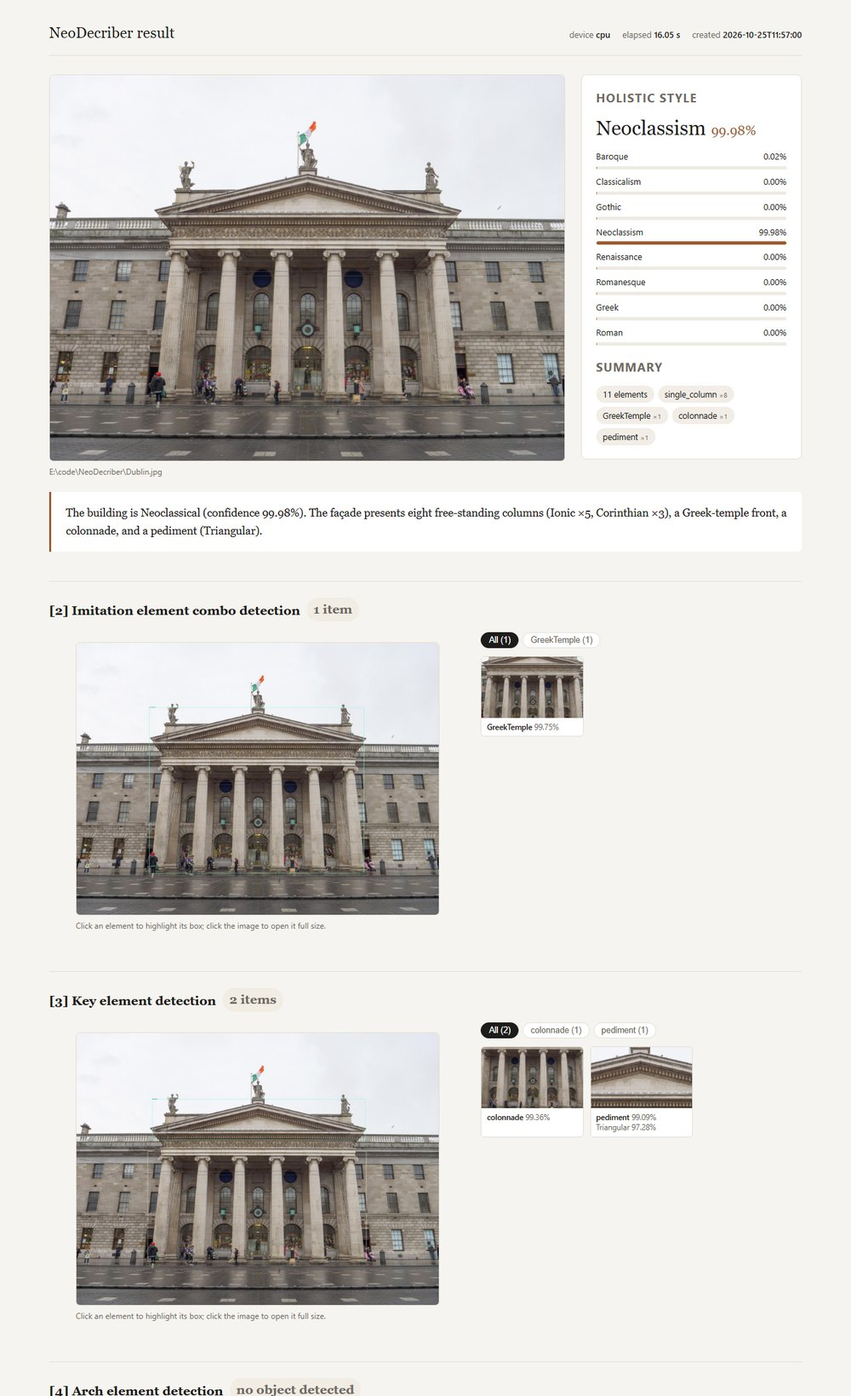
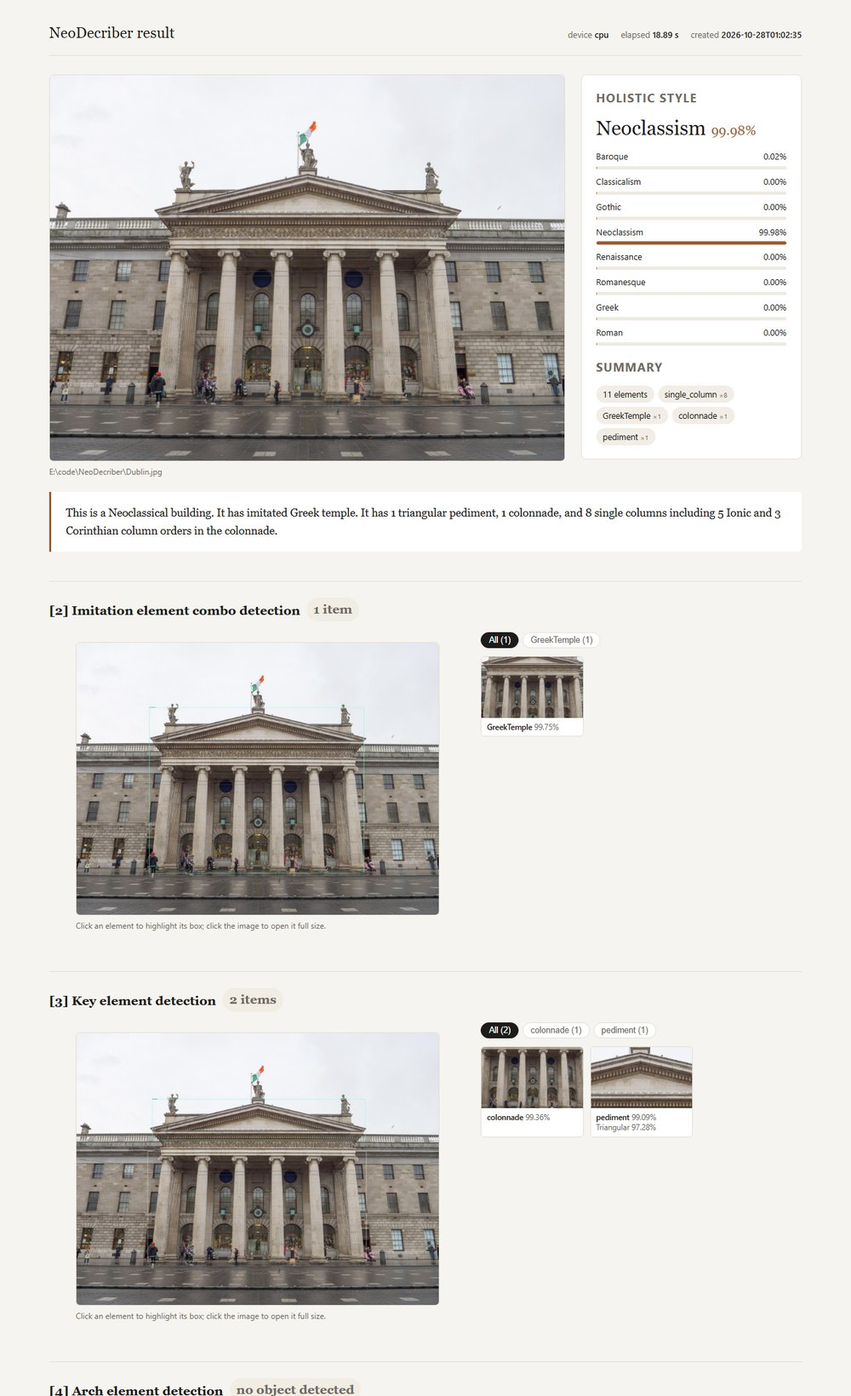
feat: describe results in the paper's phrasing
- description now reads: This is a Neoclassical building. It has imitated
  Greek temple. It has 1 triangular pediment, 1 colonnade, and 8 single columns
  including 5 Ionic and 3 Corinthian column orders in the colonnade.
- imitation stage is reported as its own sentence, elements are ordered top-down,
  counts are numerals and single-column styles are aggregated as column orders
- regenerate example_result/ and the README screenshot with a real run
- ignore the local dataset folder and zip archives

Changed region(s): [[0.093, 0.3421, 0.93, 0.4043], [0.837, 0.0, 0.899, 0.0311]]

diff --git a/example_result/report.html b/example_result/report.html
@@ -79,7 +79,7 @@ footer code { background: #f1ece4; padding: 1px 5px; border-radius: 4px; }
 </style>
 </head>
 <body>
-<div class="wrap"><header class="top"><div class="brand">NeoDecriber result</div><div class="meta"><span>device <b>cpu</b></span><span>elapsed <b>16.05 s</b></span><span>created <b>2026-10-25T11:57:00</b></span></div></header><section class="hero"><figure><img src="input.jpg" alt="input image"><figcaption>E:\code\NeoDecriber\Dublin.jpg</figcaption></figure><div class="panel"><h3>Holistic style</h3><div class="style-big">Neoclassism<span class="style-prob">99.98%</span></div><div class="bars"><div class="bar-row"><span>Baroque</span><span>0.02%</span><div class="bar-track"><div class="bar-fill" style="width:0.4%"></div></div></div><div class="bar-row"><span>Classicalism</span><span>0.00%</span><div class="bar-track"><div class="bar-fill" style="width:0.4%"></div></div></div><div class="bar-row"><span>Gothic</span><span>0.00%</span><div class="bar-track"><div class="bar-fill" style="width:0.4%"></div></div></div><div class="bar-row"><span>Neoclassism</span><span>99.98%</span><div class="bar-track"><div class="bar-fill" style="width:100.0%"></div></div></div><div class="bar-row"><span>Renaissance</span><span>0.00%</span><div class="bar-track"><div class="bar-fill" style="width:0.4%"></div></div></div><div class="bar-row"><span>Romanesque</span><span>0.00%</span><div class="bar-track"><div class="bar-fill" style="width:0.4%"></div></div></div><div class="bar-row"><span>Greek</span><span>0.00%</span><div class="bar-track"><div class="bar-fill" style="width:0.4%"></div></div></div><div class="bar-row"><span>Roman</span><span>0.00%</span><div class="bar-track"><div class="bar-fill" style="width:0.4%"></div></div></div></div><h3>Summary</h3><div class="stats"><span class="pill">11 elements</span><span class="pill">single_column <small>×8</small></span><span class="pill">GreekTemple <small>×1</small></span><span class="pill">colonnade <small>×1</small></span><span class="pill">pediment <small>×1</small></span></div></div></section><blockquote class="desc">The building is Neoclassical (confidence 99.98%). The façade presents eight free-standing columns (Ionic ×5, Corinthian ×3), a Greek-temple front, a colonnade, and a pediment (Triangular).</blockquote><section class="stage"><h2>[2] Imitation element combo detection<span class="badge">1 item</span></h2><div class="stage-body"><figure class="annotated"><a href="imitation%20element%20combo.jpg" target="_blank" rel="noopener"><img src="report/imitation%20element%20combo.jpg" alt="Imitation element combo detection" loading="lazy"></a><div class="overlay"></div><figcaption>Click an element to highlight its box; click the image to open it full size.</figcaption></figure><div><div class="chips"><button class="chip on" data-label="">All (1)</button><button class="chip" data-label="GreekTemple">GreekTemple (1)</button></div><div class="crops"><figure class="crop" data-label="GreekTemple" data-bbox="1042.3,926.0,4112.3,3294.9" title="GreekTemple #0 · 99.75%"><img src="element_combination/GreekTemple_0.jpg" alt="GreekTemple" loading="lazy"><figcaption><b>GreekTemple</b> 99.75%</figcaption></figure></div></div></div></section><section class="stage"><h2>[3] Key element detection<span class="badge">2 items</span></h2><div class="stage-body"><figure class="annotated"><a href="key_element.jpg" target="_blank" rel="noopener"><img src="report/key_element.jpg" alt="Key element detection" loading="lazy"></a><div class="overlay"></div><figcaption>Click an element to highlight its box; click the image to open it full size.</figcaption></figure><div><div class="chips"><button class="chip on" data-label="">All (2)</button><button class="chip" data-label="colonnade">colonnade (1)</button><button class="chip" data-label="pediment">pediment (1)</button></div><div class="crops"><figure class="crop" data-label="colonnade" data-bbox="1018.0,1692.6,4147.7,3258.6" title="colonnade #0 · 99.36%"><img src="key_element/colonnade_0.jpg" alt="colonnade" loading="lazy"><figcaption><b>colonnade</b> 99.36%</figcaption></figure><figure class="crop" data-label="pediment" data-bbox="1083.2,946.8,4133.1,1523.2" title="pediment #1 · 99.09%"><img src="key_element/pediment_1.jpg" alt="pediment" loading="lazy"><figcaption><b>pediment</b> 99.09%<br>Triangular 97.28%</figcaption></figure></div></div></div></section><section class="stage"><h2>[4] Arch element detection<span class="badge">no object detected</span></h2><p class="empty">No element above the threshold.</p></section><section class="stage"><h2>[5] Column combination detection<span class="badge">no object detected</span></h2><p class="empty">No element above the threshold.</p></section><section class="stage"><h2>[6] Single column detection<span class="badge">8 items</span></h2><div class="stage-body"><figure class="annotated"><a href="single_column.jpg" target="_blank" rel="noopener"><img src="report/single_column.jpg" alt="Single column detection" loading="lazy"></a><div class="overlay"></div><figcaption>Click an element to highlight its box; click the image to open it full size.</figcaption></figure><div><div class="chips"><button class="chip on" data-label="">All (8)</button><button class="chip" data-label="single_column">single_column (8)</button></div><div class="crops"><figure class="crop" data-label="single_column" data-bbox="3788.6,1736.1,4143.9,3225.5" title="single_column #0 · 99.80%"><img src="single_column/single_column_0.jpg" alt="single_column" loading="lazy"><figcaption><b>single_column</b> 99.80%<br>Corinthian 49.50%</figcaption></figure><figure class="crop" data-label="single_column" data-bbox="2714.2,1719.0,3027.5,3253.1" title="single_column #1 · 99.71%"><img src="single_column/single_column_1.jpg" alt="single_column" loading="lazy"><figcaption><b>single_column</b> 99.71%<br>Ionic 96.02%</figcaption></figure><figure class="crop" data-label="single_column" data-bbox="1612.4,1721.9,1949.4,3209.9" title="single_column #2 · 99.57%"><img src="single_column/single_column_2.jpg" alt="single_column" loading="lazy"><figcaption><b>single_column</b> 99.57%<br>Ionic 84.85%</figcaption></figure><figure class="crop" data-label="single_column" data-bbox="3250.6,1699.7,3595.1,3251.5" title="single_column #3 · 99.56%"><img src="single_column/single_column_3.jpg" alt="single_column" loading="lazy"><figcaption><b>single_column</b> 99.56%<br>Corinthian 77.11%</figcaption></figure><figure class="crop" data-label="single_column" data-bbox="1061.2,1725.3,1415.1,3190.2" title="single_column #4 · 99.48%"><img src="single_column/single_column_4.jpg" alt="single_column" loading="lazy"><figcaption><b>single_column</b> 99.48%<br>Ionic 71.78%</figcaption></figure><figure class="crop" data-label="single_column" data-bbox="2178.2,1698.0,2486.2,3267.5" title="single_column #5 · 99.40%"><img src="single_column/single_column_5.jpg" alt="single_column" loading="lazy"><figcaption><b>single_column</b> 99.40%<br>Ionic 92.45%</figcaption></figure><figure class="crop" data-label="single_column" data-bbox="1278.1,1839.0,1532.5,3213.3" title="single_column #6 · 97.01%"><img src="single_column/single_column_6.jpg" alt="single_column" loading="lazy"><figcaption><b>single_column</b> 97.01%<br>Ionic 53.48%</figcaption></figure><figure class="crop" data-label="single_column" data-bbox="3653.8,1860.0,3915.3,3220.6" title="single_column #7 · 91.07%"><img src="single_column/single_column_7.jpg" alt="single_column" loading="lazy"><figcaption><b>single_column</b> 91.07%<br>Corinthian 73.75%</figcaption></figure></div></div></div></section><footer>Output <code>E:\code\NeoDecriber\result</code> &nbsp;·&nbsp; weights <code>E:\code\NeoDecriber\weights</code> &nbsp;·&nbsp; data <a href="result.json">result.json</a> &nbsp;·&nbsp; report <a href="result.txt">result.txt</a></footer></div>
+<div class="wrap"><header class="top"><div class="brand">NeoDecriber result</div><div class="meta"><span>device <b>cpu</b></span><span>elapsed <b>18.89 s</b></span><span>created <b>2026-10-28T01:02:35</b></span></div></header><section class="hero"><figure><img src="input.jpg" alt="input image"><figcaption>E:\code\NeoDecriber\Dublin.jpg</figcaption></figure><div class="panel"><h3>Holistic style</h3><div class="style-big">Neoclassism<span class="style-prob">99.98%</span></div><div class="bars"><div class="bar-row"><span>Baroque</span><span>0.02%</span><div class="bar-track"><div class="bar-fill" style="width:0.4%"></div></div></div><div class="bar-row"><span>Classicalism</span><span>0.00%</span><div class="bar-track"><div class="bar-fill" style="width:0.4%"></div></div></div><div class="bar-row"><span>Gothic</span><span>0.00%</span><div class="bar-track"><div class="bar-fill" style="width:0.4%"></div></div></div><div class="bar-row"><span>Neoclassism</span><span>99.98%</span><div class="bar-track"><div class="bar-fill" style="width:100.0%"></div></div></div><div class="bar-row"><span>Renaissance</span><span>0.00%</span><div class="bar-track"><div class="bar-fill" style="width:0.4%"></div></div></div><div class="bar-row"><span>Romanesque</span><span>0.00%</span><div class="bar-track"><div class="bar-fill" style="width:0.4%"></div></div></div><div class="bar-row"><span>Greek</span><span>0.00%</span><div class="bar-track"><div class="bar-fill" style="width:0.4%"></div></div></div><div class="bar-row"><span>Roman</span><span>0.00%</span><div class="bar-track"><div class="bar-fill" style="width:0.4%"></div></div></div></div><h3>Summary</h3><div class="stats"><span class="pill">11 elements</span><span class="pill">single_column <small>×8</small></span><span class="pill">GreekTemple <small>×1</small></span><span class="pill">colonnade <small>×1</small></span><span class="pill">pediment <small>×1</small></span></div></div></section><blockquote class="desc">This is a Neoclassical building. It has imitated Greek temple. It has 1 triangular pediment, 1 colonnade, and 8 single columns including 5 Ionic and 3 Corinthian column orders in the colonnade.</blockquote><section class="stage"><h2>[2] Imitation element combo detection<span class="badge">1 item</span></h2><div class="stage-body"><figure class="annotated"><a href="imitation%20element%20combo.jpg" target="_blank" rel="noopener"><img src="report/imitation%20element%20combo.jpg" alt="Imitation element combo detection" loading="lazy"></a><div class="overlay"></div><figcaption>Click an element to highlight its box; click the image to open it full size.</figcaption></figure><div><div class="chips"><button class="chip on" data-label="">All (1)</button><button class="chip" data-label="GreekTemple">GreekTemple (1)</button></div><div class="crops"><figure class="crop" data-label="GreekTemple" data-bbox="1042.3,926.0,4112.3,3294.9" title="GreekTemple #0 · 99.75%"><img src="element_combination/GreekTemple_0.jpg" alt="GreekTemple" loading="lazy"><figcaption><b>GreekTemple</b> 99.75%</figcaption></figure></div></div></div></section><section class="stage"><h2>[3] Key element detection<span class="badge">2 items</span></h2><div class="stage-body"><figure class="annotated"><a href="key_element.jpg" target="_blank" rel="noopener"><img src="report/key_element.jpg" alt="Key element detection" loading="lazy"></a><div class="overlay"></div><figcaption>Click an element to highlight its box; click the image to open it full size.</figcaption></figure><div><div class="chips"><button class="chip on" data-label="">All (2)</button><button class="chip" data-label="colonnade">colonnade (1)</button><button class="chip" data-label="pediment">pediment (1)</button></div><div class="crops"><figure class="crop" data-label="colonnade" data-bbox="1018.0,1692.6,4147.7,3258.6" title="colonnade #0 · 99.36%"><img src="key_element/colonnade_0.jpg" alt="colonnade" loading="lazy"><figcaption><b>colonnade</b> 99.36%</figcaption></figure><figure class="crop" data-label="pediment" data-bbox="1083.2,946.8,4133.1,1523.2" title="pediment #1 · 99.09%"><img src="key_element/pediment_1.jpg" alt="pediment" loading="lazy"><figcaption><b>pediment</b> 99.09%<br>Triangular 97.28%</figcaption></figure></div></div></div></section><section class="stage"><h2>[4] Arch element detection<span class="badge">no object detected</span></h2><p class="empty">No element above the threshold.</p></section><section class="stage"><h2>[5] Column combination detection<span class="badge">no object detected</span></h2><p class="empty">No element above the threshold.</p></section><section class="stage"><h2>[6] Single column detection<span class="badge">8 items</span></h2><div class="stage-body"><figure class="annotated"><a href="single_column.jpg" target="_blank" rel="noopener"><img src="report/single_column.jpg" alt="Single column detection" loading="lazy"></a><div class="overlay"></div><figcaption>Click an element to highlight its box; click the image to open it full size.</figcaption></figure><div><div class="chips"><button class="chip on" data-label="">All (8)</button><button class="chip" data-label="single_column">single_column (8)</button></div><div class="crops"><figure class="crop" data-label="single_column" data-bbox="3788.6,1736.1,4143.9,3225.5" title="single_column #0 · 99.80%"><img src="single_column/single_column_0.jpg" alt="single_column" loading="lazy"><figcaption><b>single_column</b> 99.80%<br>Corinthian 49.50%</figcaption></figure><figure class="crop" data-label="single_column" data-bbox="2714.2,1719.0,3027.5,3253.1" title="single_column #1 · 99.71%"><img src="single_column/single_column_1.jpg" alt="single_column" loading="lazy"><figcaption><b>single_column</b> 99.71%<br>Ionic 96.02%</figcaption></figure><figure class="crop" data-label="single_column" data-bbox="1612.4,1721.9,1949.4,3209.9" title="single_column #2 · 99.57%"><img src="single_column/single_column_2.jpg" alt="single_column" loading="lazy"><figcaption><b>single_column</b> 99.57%<br>Ionic 84.85%</figcaption></figure><figure class="crop" data-label="single_column" data-bbox="3250.6,1699.7,3595.1,3251.5" title="single_column #3 · 99.56%"><img src="single_column/single_column_3.jpg" alt="single_column" loading="lazy"><figcaption><b>single_column</b> 99.56%<br>Corinthian 77.11%</figcaption></figure><figure class="crop" data-label="single_column" data-bbox="1061.2,1725.3,1415.1,3190.2" title="single_column #4 · 99.48%"><img src="single_column/single_column_4.jpg" alt="single_column" loading="lazy"><figcaption><b>single_column</b> 99.48%<br>Ionic 71.78%</figcaption></figure><figure class="crop" data-label="single_column" data-bbox="2178.2,1698.0,2486.2,3267.5" title="single_column #5 · 99.40%"><img src="single_column/single_column_5.jpg" alt="single_column" loading="lazy"><figcaption><b>single_column</b> 99.40%<br>Ionic 92.45%</figcaption></figure><figure class="crop" data-label="single_column" data-bbox="1278.1,1839.0,1532.5,3213.3" title="single_column #6 · 97.01%"><img src="single_column/single_column_6.jpg" alt="single_column" loading="lazy"><figcaption><b>single_column</b> 97.01%<br>Ionic 53.48%</figcaption></figure><figure class="crop" data-label="single_column" data-bbox="3653.8,1860.0,3915.3,3220.6" title="single_column #7 · 91.07%"><img src="single_column/single_column_7.jpg" alt="single_column" loading="lazy"><figcaption><b>single_column</b> 91.07%<br>Corinthian 73.75%</figcaption></figure></div></div></div></section><footer>Output <code>E:\code\NeoDecriber\result</code> &nbsp;·&nbsp; weights <code>E:\code\NeoDecriber\weights</code> &nbsp;·&nbsp; data <a href="result.json">result.json</a> &nbsp;·&nbsp; report <a href="result.txt">result.txt</a></footer></div>
 <script>
 (function () {
   function percent(value, total) { return (value / (total || 1)) * 100 + '%'; }

diff --git a/describe.py b/describe.py
@@ -1,13 +1,18 @@
 """根据识别结果生成一段建筑风格描述。
 
-纯规则模板：不调用任何模型或外部服务，同样的输入永远得到同样的文字，
-方便论文复现和批量统计。生成结果会写进 result.txt / result.json / report.html。
+输出格式（与论文里的描述方式一致）::
+
+    This is a Neoclassical building. It has imitated Greek temple. It has
+    1 triangular pediment, 1 colonnade, and 8 single columns including 5 Ionic
+    and 3 Corinthian column orders in the colonnade.
+
+纯规则模板：不调用任何模型或外部服务，同样的输入永远得到同样的文字。
 """
 
 from __future__ import annotations
 
 from collections import Counter
-from typing import Dict, Sequence, Tuple
+from typing import Dict, Optional, Sequence, Tuple
 
 # 整体风格 -> 形容词
 _ADJECTIVES: Dict[str, str] = {
@@ -15,35 +20,35 @@ _ADJECTIVES: Dict[str, str] = {
     "Classicalism": "Classical",
 }
 
-# 元素标签 -> (单数短语, 复数短语)
-_ELEMENT_PHRASES: Dict[str, Tuple[str, str]] = {
-    "GreekTemple": ("a Greek-temple front", "Greek-temple fronts"),
-    "Tempietto": ("a tempietto-like front", "tempietto-like fronts"),
-    "St. Peter's Basilica": ("a St Peter's Basilica-like front", "St Peter's Basilica-like fronts"),
-    "RomanPantheon": ("a Roman Pantheon-like front", "Roman Pantheon-like fronts"),
-    "colonnade": ("a colonnade", "colonnades"),
-    "arcade": ("an arcade", "arcades"),
-    "pediment": ("a pediment", "pediments"),
-    "arch": ("an arch", "arches"),
-    "tower": ("a tower", "towers"),
-    "dome": ("a dome", "domes"),
-    "roseWindow": ("a rose window", "rose windows"),
-    "scroll": ("a volute", "volutes"),
-    "single_column": ("a free-standing column", "free-standing columns"),
-    "Coupled": ("a coupled column pair", "coupled column pairs"),
-    "Triple": ("a triple column group", "triple column groups"),
+# 仿古元素（第一阶段）-> 句子里的说法
+_IMITATIONS: Dict[str, str] = {
+    "GreekTemple": "Greek temple",
+    "Tempietto": "Tempietto",
+    "St. Peter's Basilica": "St Peter's Basilica",
+    "RomanPantheon": "Roman Pantheon",
 }
 
-_NUMBERS = {1: "one", 2: "two", 3: "three", 4: "four", 5: "five",
-            6: "six", 7: "seven", 8: "eight", 9: "nine", 10: "ten"}
+# 元素标签 -> (单数名词, 复数名词)
+_ELEMENT_NOUNS: Dict[str, Tuple[str, str]] = {
+    "pediment": ("pediment", "pediments"),
+    "colonnade": ("colonnade", "colonnades"),
+    "arcade": ("arcade", "arcades"),
+    "arch": ("arch", "arches"),
+    "tower": ("tower", "towers"),
+    "dome": ("dome", "domes"),
+    "single_column": ("single column", "single columns"),
+    "roseWindow": ("rose window", "rose windows"),
+    "scroll": ("volute", "volutes"),
+    "Coupled": ("coupled column pair", "coupled column pairs"),
+    "Triple": ("triple column group", "triple column groups"),
+}
 
-
-def _number(value: int) -> str:
-    return _NUMBERS.get(value, str(value))
-
-
-def _percent(value: float) -> str:
-    return f"{value * 100:.2f}%"
+# 句子里的出现顺序：自上而下
+_ELEMENT_ORDER: Dict[str, int] = {
+    "pediment": 10, "colonnade": 20, "arcade": 30, "tower": 40, "dome": 50,
+    "arch": 60, "single_column": 70, "Coupled": 80, "Triple": 81,
+    "roseWindow": 90, "scroll": 91,
+}
 
 
 def _style_name(name: str) -> str:
@@ -51,87 +56,85 @@ def _style_name(name: str) -> str:
 
 
 def _join(parts: Sequence[str]) -> str:
-    """['a', 'b', 'c'] -> 'a, b, and c'。"""
+    """['a', 'b', 'c'] -> 'a, b, and c'；两个元素时不加牛津逗号。"""
     if not parts:
         return ""
     if len(parts) == 1:
         return parts[0]
+    if len(parts) == 2:
+        return parts[0] + " and " + parts[1]
     return ", ".join(parts[:-1]) + ", and " + parts[-1]
 
 
-def _elements_clause(stages: Sequence[dict]) -> str:
-    """把各阶段的检测结果压缩成 'a colonnade, a pediment (Triangular), and ...'。"""
+def _collect(stages: Sequence[dict]):
+    """统计元素数量、每个元素的风格分布，以及仿古元素。"""
     counts: Counter = Counter()
     styles: Dict[str, Counter] = {}
-
+    imitations = []
     for stage in stages:
         for detection in stage["detections"]:
             label = detection["label"]
+            imitation = _IMITATIONS.get(label)
+            if imitation:
+                if imitation not in imitations:
+                    imitations.append(imitation)
+                continue
             counts[label] += 1
             style = detection.get("style")
             if style:
                 styles.setdefault(label, Counter())[style["name"]] += 1
-
-    phrases = []
-    for label, count in counts.most_common():
-        singular, plural = _ELEMENT_PHRASES.get(
-            label, (label, label if label.endswith("s") else label + "s"))
-        phrase = singular if count == 1 else f"{_number(count)} {plural}"
-
-        notes = styles.get(label)
-        if notes:
-            if len(notes) == 1:
-                phrase += f" ({notes.most_common(1)[0][0]})"
-            else:
-                detail = ", ".join(f"{name} ×{n}" for name, n in notes.most_common())
-                phrase += f" ({detail})"
-        phrases.append(phrase)
-
-    return _join(phrases)
+    return counts, styles, imitations
 
 
-def _implicit_clause(stages: Sequence[dict]) -> str:
-    """元素风格隐含的其它时期风格。"""
-    hints: Counter = Counter()
-    for stage in stages:
-        for detection in stage["detections"]:
-            style = detection.get("style")
-            if style and style.get("implicit"):
-                hints[(style["implicit"], style["name"])] += 1
-
-    if not hints:
+def _dominant_adjective(notes: Optional[Counter]) -> str:
+    """元素的主风格形容词；"Other" 或多数不占优时返回空串。"""
+    if not notes:
         return ""
-    parts = [f"{name} ({implicit} influence) ×{count}"
-             for (implicit, name), count in hints.most_common()]
-    return "Some elements also point to other styles: " + ", ".join(parts) + "."
+    name, count = notes.most_common(1)[0]
+    if name == "Other" or count * 2 <= sum(notes.values()):
+        return ""
+    return name.lower()
+
+
+def _element_phrase(label: str, count: int, notes: Optional[Counter],
+                    has_colonnade: bool) -> str:
+    singular, plural = _ELEMENT_NOUNS.get(
+        label, (label, label if label.endswith("s") else label + "s"))
+    noun = singular if count == 1 else plural
+
+    # 柱式的风格属于"柱式"，不能当成单柱的形容词（否则会写出 ionic single columns）
+    adjective = "" if label == "single_column" else _dominant_adjective(notes)
+    phrase = f"{count} {adjective + ' ' if adjective else ''}{noun}"
+
+    if label == "single_column" and notes:
+        orders = _join([f"{n} {name}" for name, n in notes.most_common()])
+        phrase += f" including {orders} column orders"
+        if has_colonnade:
+            phrase += " in the colonnade"
+    return phrase
 
 
 def describe(style: dict, stages: Sequence[dict]) -> str:
-    """生成一段 2–4 句的建筑风格描述。"""
-    top = _style_name(style["top"])
-    confidence = _percent(style["prob"])
-    sentences = [f"The building is {top} (confidence {confidence})."]
+    """生成 2–3 句建筑风格描述。"""
+    sentences = [f"This is a {_style_name(style['top'])} building."]
 
     if not style.get("is_neoclassism"):
-        sentences.append(
-            "Element-level detection was skipped because the style is not Neoclassical."
-        )
+        sentences.append("Element detection is only run for Neoclassical buildings.")
         return " ".join(sentences)
 
-    elements = _elements_clause(stages)
-    if elements:
-        sentences.append(f"The façade presents {elements}.")
+    counts, styles, imitations = _collect(stages)
+
+    if imitations:
+        sentences.append(f"It has imitated {_join(imitations)}.")
+
+    if counts:
+        has_colonnade = counts.get("colonnade", 0) > 0
+        ordered = sorted(counts.items(),
+                         key=lambda kv: (_ELEMENT_ORDER.get(kv[0], 95), -kv[1]))
+        phrases = [_element_phrase(label, count, styles.get(label), has_colonnade)
+                   for label, count in ordered]
+        sentences.append("It has " + _join(phrases) + ".")
     else:
         sentences.append("No architectural elements were detected above the threshold.")
-
-    implicit = _implicit_clause(stages)
-    if implicit:
-        sentences.append(implicit)
-
-    if style["prob"] < 0.6:
-        sentences.append(
-            f"The holistic classification is not decisive ({confidence}), "
-            "so treat the element list as indicative."
-        )
 
     return " ".join(sentences)

diff --git a/README.md b/README.md
@@ -117,18 +117,18 @@ Summary
     style           : Neoclassism (99.98%)
     elements        : single_column 8, GreekTemple 1, colonnade 1, pediment 1
     implicit styles : -
-    elapsed         : 16.05 s
+    elapsed         : 18.89 s
 
 Description
-    The building is Neoclassical (confidence 99.98%). The façade presents eight
-    free-standing columns (Ionic ×5, Corinthian ×3), a Greek-temple front, a colonnade,
-    and a pediment (Triangular).
+    This is a Neoclassical building. It has imitated Greek temple. It has 1 triangular
+    pediment, 1 colonnade, and 8 single columns including 5 Ionic and 3 Corinthian column
+    orders in the colonnade.
 ```
 
-The description is generated by rules from the structured result (`describe.py`): it names the
-holistic style, turns the detected elements into a sentence with counts and fine-grained styles, and
-adds secondary-style hints when element styles imply one. Same input always gives the same text — no
-model call, nothing to install.
+The description is generated by rules from the structured result (`describe.py`): one sentence for the
+holistic style, one for the imitation source if the model recognised a temple prototype, and one that
+lists the detected elements with their counts, inline element styles and column orders. Same input
+always gives the same text — no model call, nothing to install.
 
 `result.json` keeps the same information with numbers, boxes and file paths, for batch statistics
 (one detection shown here):
@@ -136,7 +136,7 @@ model call, nothing to install.
 ```json
 {
   "image": "D:\\data\\test.jpg",
-  "description": "The building is Neoclassical (confidence 99.98%). ...",
+  "description": "This is a Neoclassical building. It has imitated Greek temple. ...",
   "style": {"top": "Neoclassism", "prob": 0.9997, "is_neoclassism": true,
             "classes": [{"name": "Baroque", "prob": 0.0003}]},
   "stages": [
@@ -170,7 +170,7 @@ example_result/
 ```
 
 It classified the building as Neoclassical (99.98%) with a colonnade, a triangular pediment and eight
-free-standing columns (five Ionic, three Corinthian) — the elements the GPO portico actually has.
+single columns (five Ionic, three Corinthian) — the elements the GPO portico actually has.
 
 ## How it works
 
